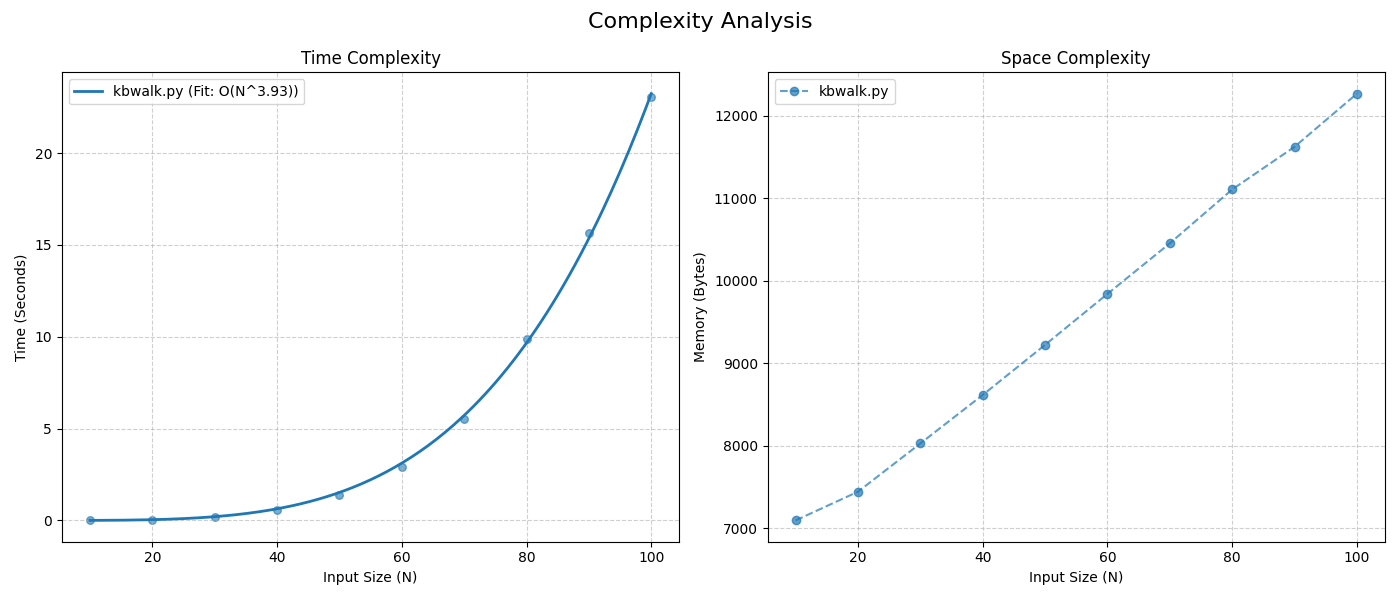
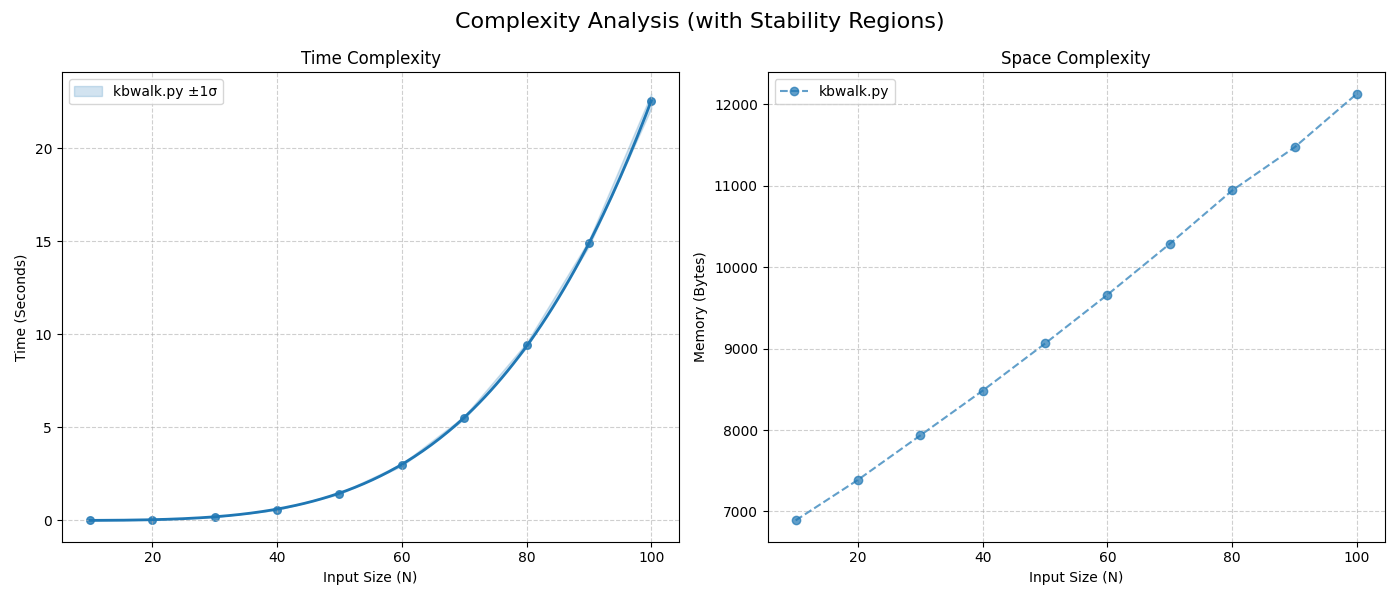
updating graph and readme notes on Occam

diff --git a/README.md b/README.md
@@ -95,134 +95,129 @@ Here are my results running the scanner myself:
 ```bash
 ┌──(occam-env)(kali@kali)-[~/occam]
 └─$ python3 occam.py testing/kbwalk.py --type list --max_n 100 --dump --output testing/kbwalk_graph.png
-
-=================================================================
-Analyzing: testing/kbwalk.py
-Pattern:   random
-=================================================================
+===========================================================================
+Analyzing: ../keyb-walking/kbwalk.py
+Pattern:   random
+===========================================================================
 
 -----------------------------------------------------------------
 STATIC ANALYSIS: run_analysis_entry
 -----------------------------------------------------------------
-Lines of Code (LOC):       14
-Cyclomatic Complexity:     4 (Low)
-Max Loop Nesting:          1 -> Likely O(N)
-Variable Accesses ([]):    0
-Math Operations:           0
-Function Calls:            6
-Bytecode Instructions:     78
-Control Flow Jumps:        7
+Lines of Code (LOC):       7
+Cyclomatic Complexity:     4 (Low)
+Max Loop Nesting:          1 -> Likely O(N)
+Variable Accesses ([]):    0
+Math Operations:           0
+Function Calls:            6
+Bytecode Instructions:     78
+Control Flow Jumps:        7
 
 [Bytecode Dump]
- 134            RESUME                   0
+ 141            RESUME                   0
 
- 139            LOAD_GLOBAL              1 (isinstance + NULL)
-                LOAD_FAST                1 (data)
-                LOAD_GLOBAL              2 (list)
-                CALL                     2
-                TO_BOOL
-                POP_JUMP_IF_FALSE       28 (to L5)
+ 142            LOAD_GLOBAL              1 (isinstance + NULL)
+                LOAD_FAST                1 (data)
+                LOAD_GLOBAL              2 (list)
+                CALL                     2
+                TO_BOOL
+                POP_JUMP_IF_FALSE       28 (to L5)
+                LOAD_FAST                1 (data)
+                GET_ITER
+                LOAD_FAST_AND_CLEAR      2 (x)
+                SWAP                     2
+        L1:     BUILD_LIST               0
+                SWAP                     2
+                GET_ITER
+        L2:     FOR_ITER                14 (to L3)
+                STORE_FAST               2 (x)
+                LOAD_GLOBAL              5 (str + NULL)
+                LOAD_FAST                2 (x)
+                CALL                     1
+                LIST_APPEND              2
+                JUMP_BACKWARD           16 (to L2)
+        L3:     END_FOR
+                POP_TOP
+        L4:     STORE_FAST               3 (segments)
+                STORE_FAST               2 (x)
+                JUMP_FORWARD            61 (to L11)
 
- 140            LOAD_FAST                1 (data)
-                GET_ITER
-                LOAD_FAST_AND_CLEAR      2 (x)
-                SWAP                     2
-        L1:     BUILD_LIST               0
-                SWAP                     2
-                GET_ITER
-        L2:     FOR_ITER                14 (to L3)
-                STORE_FAST               2 (x)
-                LOAD_GLOBAL              5 (str + NULL)
-                LOAD_FAST                2 (x)
-                CALL                     1
-                LIST_APPEND              2
-                JUMP_BACKWARD           16 (to L2)
-        L3:     END_FOR
-                POP_TOP
-        L4:     STORE_FAST               3 (segments)
-                STORE_FAST               2 (x)
-                JUMP_FORWARD            61 (to L11)
+ 143    L5:     LOAD_GLOBAL              1 (isinstance + NULL)
+                LOAD_FAST                1 (data)
+                LOAD_GLOBAL              6 (int)
+                CALL                     2
+                TO_BOOL
+                POP_JUMP_IF_FALSE       37 (to L10)
+                LOAD_GLOBAL              9 (range + NULL)
+                LOAD_FAST                1 (data)
+                CALL                     1
+                GET_ITER
+                LOAD_FAST_AND_CLEAR      4 (i)
+                SWAP                     2
+        L6:     BUILD_LIST               0
+                SWAP                     2
+                GET_ITER
+        L7:     FOR_ITER                14 (to L8)
+                STORE_FAST               4 (i)
+                LOAD_GLOBAL              5 (str + NULL)
+                LOAD_FAST                4 (i)
+                CALL                     1
+                LIST_APPEND              2
+                JUMP_BACKWARD           16 (to L7)
+        L8:     END_FOR
+                POP_TOP
+        L9:     STORE_FAST               3 (segments)
+                STORE_FAST               4 (i)
+                JUMP_FORWARD             3 (to L11)
 
- 141    L5:     LOAD_GLOBAL              1 (isinstance + NULL)
-                LOAD_FAST                1 (data)
-                LOAD_GLOBAL              6 (int)
-                CALL                     2
-                TO_BOOL
-                POP_JUMP_IF_FALSE       37 (to L10)
+ 144   L10:     LOAD_CONST               1 ('1qaz')
+                BUILD_LIST               1
+                STORE_FAST               3 (segments)
 
- 142            LOAD_GLOBAL              9 (range + NULL)
-                LOAD_FAST                1 (data)
-                CALL                     1
-                GET_ITER
-                LOAD_FAST_AND_CLEAR      4 (i)
-                SWAP                     2
-        L6:     BUILD_LIST               0
-                SWAP                     2
-                GET_ITER
-        L7:     FOR_ITER                14 (to L8)
-                STORE_FAST               4 (i)
-                LOAD_GLOBAL              5 (str + NULL)
-                LOAD_FAST                4 (i)
-                CALL                     1
-                LIST_APPEND              2
-                JUMP_BACKWARD           16 (to L7)
-        L8:     END_FOR
-                POP_TOP
-        L9:     STORE_FAST               3 (segments)
-                STORE_FAST               4 (i)
-                JUMP_FORWARD             3 (to L11)
+ 146   L11:     LOAD_GLOBAL             11 (generate_stream + NULL)
+                LOAD_FAST                3 (segments)
+                CALL                     1
+                STORE_FAST               5 (iterator)
 
- 144   L10:     LOAD_CONST               1 ('1qaz')
-                BUILD_LIST               1
-                STORE_FAST               3 (segments)
+ 147            LOAD_FAST                5 (iterator)
+                GET_ITER
+       L12:     FOR_ITER                 3 (to L13)
+                STORE_FAST               6 (_)
+                JUMP_BACKWARD            5 (to L12)
+       L13:     END_FOR
+                POP_TOP
+                RETURN_CONST             0 (None)
 
- 145   L11:     LOAD_GLOBAL             11 (generate_stream + NULL)
-                LOAD_FAST                3 (segments)
-                CALL                     1
-                STORE_FAST               5 (iterator)
+  --   L14:     SWAP                     2
+                POP_TOP
 
- 146            LOAD_FAST                5 (iterator)
-                GET_ITER
-       L12:     FOR_ITER                 3 (to L13)
-                STORE_FAST               6 (_)
+ 142            SWAP                     2
+                STORE_FAST               2 (x)
+                RERAISE                  0
 
- 147            JUMP_BACKWARD            5 (to L12)
+  --   L15:     SWAP                     2
+                POP_TOP
 
- 146   L13:     END_FOR
-                POP_TOP
-                RETURN_CONST             2 (None)
-
-  --   L14:     SWAP                     2
-                POP_TOP
-
- 140            SWAP                     2
-                STORE_FAST               2 (x)
-                RERAISE                  0
-
-  --   L15:     SWAP                     2
-                POP_TOP
-
- 142            SWAP                     2
-                STORE_FAST               4 (i)
-                RERAISE                  0
+ 143            SWAP                     2
+                STORE_FAST               4 (i)
+                RERAISE                  0
 ExceptionTable:
-  L1 to L4 -> L14 [2]
-  L6 to L9 -> L15 [2]
+  L1 to L4 -> L14 [2]
+  L6 to L9 -> L15 [2]
 -----------------------------------------------------------------
-N          | Time (s)        | Memory (B)      | Growth
------------------------------------------------------------------
-10         | 0.002347        | 7096            | N/A
-20         | 0.038002        | 7444            | 16.2x
-30         | 0.188384        | 8029            | 5.0x
-40         | 0.591005        | 8617            | 3.1x
-50         | 1.401116        | 9224            | 2.4x
-60         | 2.898512        | 9842            | 2.1x
-70         | 5.507042        | 10455           | 1.9x
-80         | 9.900729        | 11108           | 1.8x
-90         | 15.631332        | 11625           | 1.6x
-100        | 23.053735        | 12269           | 1.5x
------------------------------------------------------------------
-Time Slope:  4.00 -> O(n^k) Polynomial or Exponential
+N        | Time (avg)   | Time StdDev  | Memory (avg) | Stability (CV)
+---------------------------------------------------------------------------
+10       | 0.002631     | 0.000537     | 6890         | 0.2041
+20       | 0.037357     | 0.002002     | 7388         | 0.0536
+30       | 0.185902     | 0.002776     | 7934         | 0.0149
+40       | 0.568012     | 0.002869     | 8484         | 0.0051
+50       | 1.440236     | 0.029502     | 9063         | 0.0205
+60       | 2.981394     | 0.062462     | 9662         | 0.0210
+70       | 5.517863     | 0.081578     | 10288        | 0.0148
+80       | 9.416191     | 0.131528     | 10943        | 0.0140
+90       | 14.893127     | 0.171332     | 11473        | 0.0115
+100      | 22.543129     | 0.395457     | 12131        | 0.0175
+---------------------------------------------------------------------------
+Time Slope:  3.95 (R^2: 0.9999) -> O(n^k) Polynomial or Exponential
 Space Slope: 0.25 -> O(log n) Logarithmic
 
 Generating visualization -> testing/kbwalk_graph.png ...
